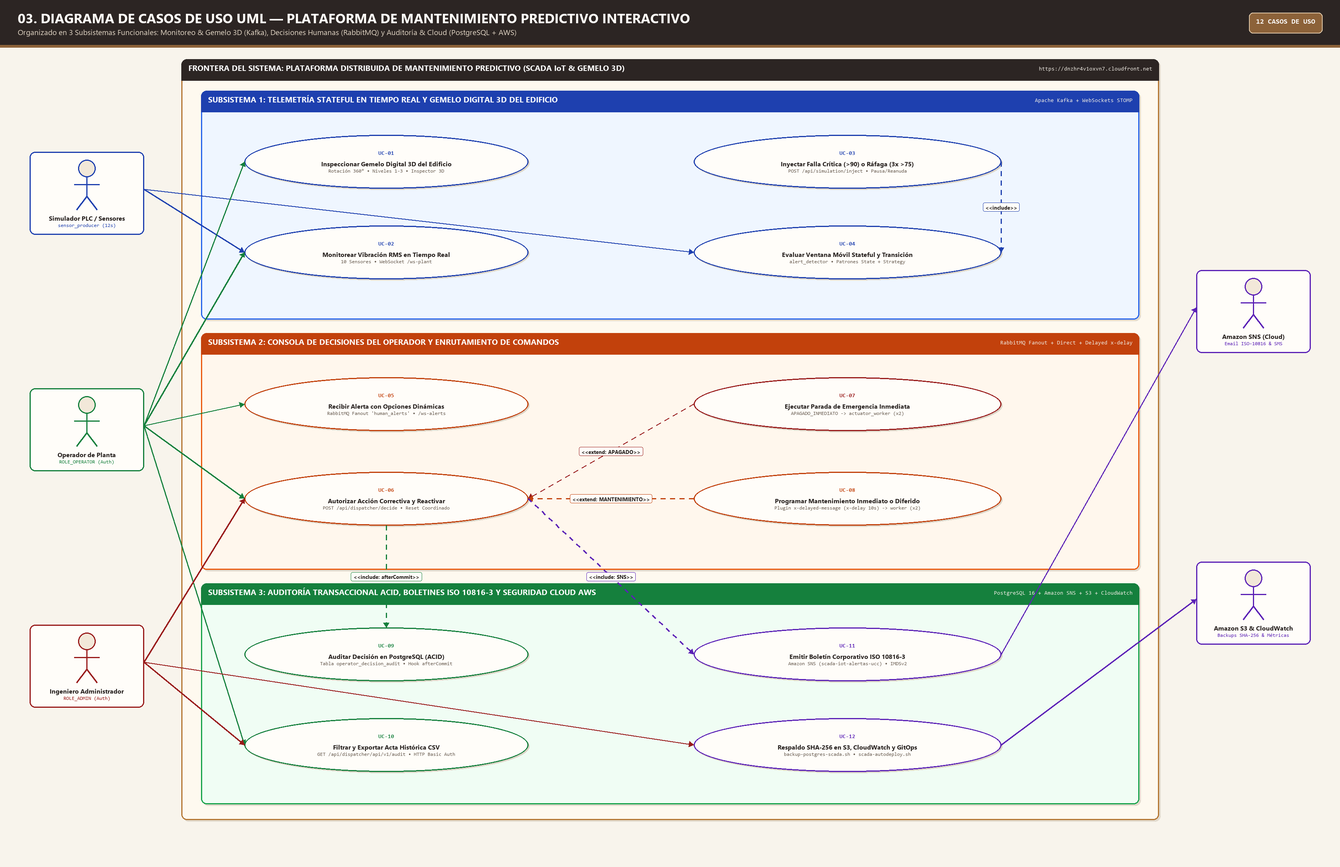
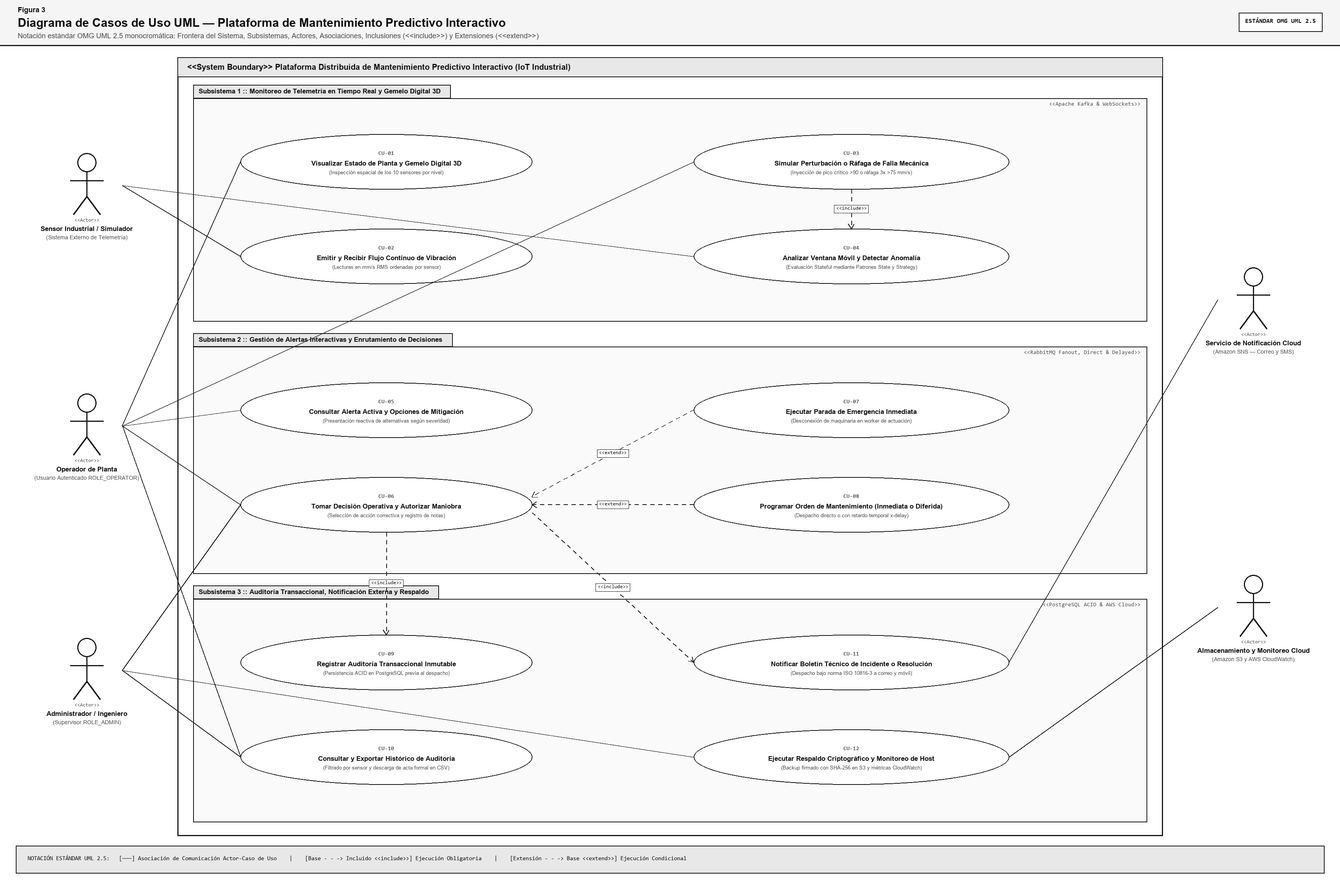
docs: add complete APA 7th edition technical report and standardize UML 2.5 monochrome PNG diagrams

diff --git a/docs/INFORME_TECNICO_APA7_PLATAFORMA_MANTENIMIENTO_PREDICTIVO.md b/docs/INFORME_TECNICO_APA7_PLATAFORMA_MANTENIMIENTO_PREDICTIVO.md
@@ -1,0 +1,282 @@
+# Diseño e Implementación de una Plataforma Distribuida de Mantenimiento Predictivo Interactivo para IoT Industrial Basada en Arquitectura Hexagonal, Apache Kafka, RabbitMQ, PostgreSQL y Despliegue Seguro en AWS
+
+**Autor:** Alejandro España  
+**Facultad:** Facultad de Ingeniería — Programa de Ingeniería de Software  
+**Institución:** Universidad Cooperativa de Colombia (UCC)  
+**Asignaturas Integradas:** Programación Orientada a Objetos Avanzada, Sistemas Distribuidos y Sistemas Operativos  
+**Infraestructura de Despliegue:** Amazon Web Services (`https://dnzhr4v1oxvn7.cloudfront.net`)  
+**Fecha:** Noviembre de 2026  
+
+---
+
+## Resumen
+
+El presente informe técnico documenta el diseño arquitectónico, la implementación orientada a objetos, el aseguramiento del sistema operativo y el despliegue en la nube de una **Plataforma Distribuida de Mantenimiento Predictivo Interactivo para el Internet de las Cosas Industrial (IIoT)**. El sistema aborda la problemática del monitoreo continuo de vibraciones mecánicas bajo la norma internacional **ISO 10816-3** mediante una arquitectura híbrida orientada a eventos que desacopla el *plano de ingesta masiva de datos* (**Apache Kafka**), el *plano de enrutamiento de decisiones humanas y tareas diferidas* (**RabbitMQ** con el plugin `rabbitmq_delayed_message_exchange`) y el *plano de persistencia transaccional y auditoría inmutable* (**PostgreSQL 16**). El backend se compone de ocho microservicios desarrollados en **Java 17 (JDK 17)** y **Spring Boot 3.3.5**, estructurados bajo una **Arquitectura Hexagonal (Puertos y Adaptadores)** con un **Modelo de Dominio Rico y Puro**, objetos de valor inmutables (`record`) con validación *Fail-Fast*, los patrones de diseño comportamentales **State** y **Strategy**, y el cumplimiento riguroso de los cinco principios **SOLID**. La interfaz de operación incorpora un **Gemelo Digital 3D interactivo** construido en **React 18 y TypeScript**. Finalmente, la solución fue desplegada en **Amazon Web Services (AWS EC2)** sobre **Ubuntu Server 24.04 LTS**, aplicando doce fases de endurecimiento (*Hardening*) de sistemas operativos, segmentación en dos redes virtuales privadas de Docker (`iot_backend_net` e `iot_brokers_net`), distribución de borde mediante **Amazon CloudFront** con cifrado TLS 1.3 nativo, notificación de boletines técnicos por **Amazon SNS**, respaldos criptográficos firmados con **SHA-256** en **Amazon S3** y despliegue continuo automatizado (**GitOps**).
+
+**Palabras clave:** arquitectura hexagonal, internet de las cosas industrial, mantenimiento predictivo, Apache Kafka, RabbitMQ, patrones de diseño, hardening de Linux, Amazon Web Services.
+
+---
+
+## Abstract
+
+This technical report documents the architectural design, object-oriented implementation, operating system hardening, and cloud deployment of an **Interactive Distributed Predictive Maintenance Platform for the Industrial Internet of Things (IIoT)**. The system addresses real-time mechanical vibration monitoring under the **ISO 10816-3** standard through a hybrid event-driven architecture that decouples the *high-throughput telemetry data plane* (**Apache Kafka**), the *human decision-making and delayed task routing plane* (**RabbitMQ** with `rabbitmq_delayed_message_exchange`), and the *ACID transactional audit persistence plane* (**PostgreSQL 16**). The backend comprises eight microservices built with **Java 17** and **Spring Boot 3.3.5**, structured under a **Hexagonal Architecture (Ports and Adapters)** featuring a **Pure Rich Domain Model**, immutable `record` Value Objects with *Fail-Fast* compact constructors, behavioral design patterns (**State** and **Strategy**), and strict adherence to **SOLID** principles. The operator console features an interactive **3D Building Digital Twin** built with **React 18 and TypeScript**. Finally, the platform is deployed on **AWS EC2 (Ubuntu Server 24.04 LTS)** with twelve layers of OS hardening, dual Docker private network segmentation (`iot_backend_net` and `iot_brokers_net`), **Amazon CloudFront** edge TLS delivery, **Amazon SNS** corporate notifications, **SHA-256** signed backups replicated to **Amazon S3**, and automated **GitOps** continuous deployment.
+
+**Keywords:** hexagonal architecture, industrial IoT, predictive maintenance, Apache Kafka, RabbitMQ, design patterns, Linux hardening, Amazon Web Services.
+
+---
+
+## 1. Introducción y Planteamiento del Problema
+
+En las plantas industriales modernas, la falla inesperada de activos rotativos críticos —tales como turbinas, generadores síncronos, compresores centrífugos y bombas hidráulicas— produce paradas no planificadas de alto costo económico y riesgo operativo. El monitoreo de condición basado en vibraciones mecánicas (medidas en velocidad eficaz $\text{mm/s RMS}$ conforme al estándar **ISO 10816-3**) exige procesar flujos continuos de telemetría en tiempo real, identificar anomalías mediante ventanas deslizantes con estado (*stateful sliding windows*) y coordinar la intervención oportuna de operadores humanos junto con actuadores automatizados.
+
+Sin embargo, el diseño de este tipo de plataformas enfrenta cuatro desafíos fundamentales de ingeniería de software y sistemas distribuidos:
+
+1. **Incompatibilidad entre ingesta masiva y enrutamiento complejo:** Un único bróker de mensajería rara vez es óptimo tanto para almacenar millones de eventos ordenados por partición como para gestionar colas de trabajo con retardos temporales por mensaje (*per-message TTL / delay*) y enrutamiento condicional.
+2. **Tormentas de alertas (*Alert Storms*):** Los sistemas que evalúan umbrales de manera *stateless* (sin memoria de estado) emiten una nueva alerta en cada lectura consecutiva que supera el umbral, saturando las consolas humanas y los canales de correo electrónico.
+3. **Inconsistencia transaccional entre base de datos y mensajería:** Si un microservicio publica una orden de apagado en el bróker de mensajería antes de confirmar (*commit*) la transacción de auditoría en la base de datos relacional, un fallo de persistencia deja acciones físicas ejecutadas en planta sin rastro forense.
+4. **Exposición de superficie de ataque en despliegues contenedorizados:** Por defecto, el motor Docker manipula directamente las cadenas `PREROUTING` y `DOCKER` de `iptables`/`nftables`, exponiendo puertos críticos de bases de datos y brókers a Internet aun cuando el firewall del sistema operativo (`UFW`) esté activo.
+
+Para resolver integralmente estos cuatro desafíos, se diseñó, implementó y desplegó una plataforma distribuida compuesta por **15 contenedores gobernados** en **AWS EC2**, integrando **Apache Kafka**, **RabbitMQ**, **PostgreSQL 16**, **8 microservicios en Java 17 + Spring Boot 3.3.5**, un **Gemelo Digital 3D en React + TypeScript** y un esquema de **Defensa en Profundidad** a nivel de sistema operativo y nube.
+
+---
+
+## 2. Marco Arquitectónico: Diseño Híbrido de Mensajería y Persistencia
+
+Siguiendo los principios de diseño de sistemas intensivos en datos expuestos por Kleppmann (2017), la arquitectura separa estrictamente tres responsabilidades mediante tecnologías especializadas:
+
+### 2.1. El Flujo de Datos Masivos: Apache Kafka (Procesamiento Stateful y Particionamiento)
+
+**Apache Kafka** opera como un registro distribuido de solo adición (*append-only commit log*) particionado. En la plataforma se definieron tres tópicos con **3 particiones** cada uno (`KAFKA_NUM_PARTITIONS: 3`): `sensor_data`, `alerts_warning` y `alerts_critical`.
+
+Para garantizar que las lecturas de un sensor específico nunca se procesen fuera de orden cronológico, el microservicio productor (`sensor_producer`) asigna el identificador único del sensor (`SensorId`, por ejemplo `"sensor_A"`) como **clave de partición (*Partition Key*)**:
+
+$$\text{Partición Destino} = \text{murmur2}(\text{sensorId}) \pmod{3}$$
+
+De esta forma, todas las lecturas de `"sensor_A"` son dirigidas determinísticamente a la misma partición y consumidas en orden estricto por una única hebra del grupo consumidor `alert-detector-group`, permitiendo mantener en memoria una ventana móvil exacta de las últimas $N = 10$ lecturas sin condiciones de carrera entre nodos.
+
+### 2.2. El Flujo de Decisiones Humanas y Tareas Diferidas: RabbitMQ (Protocolo AMQP 0-9-1)
+
+Una vez que el motor analítico detecta una transición hacia un estado de riesgo, el flujo pasa del plano de datos al plano de decisiones gobernado por **RabbitMQ 3.13**. A diferencia de Kafka, en RabbitMQ el productor nunca escribe directamente en una cola, sino que publica el mensaje en un **Exchange (Intercambiador)**, el cual evalúa reglas de enlace (*Bindings*) y claves de enrutamiento (*Routing Keys*). Se implementaron tres tipos de *Exchange*:
+
+1. **`FanoutExchange` (`human_alerts`):** Difunde en modo *broadcast* toda alerta enriquecida con opciones hacia la cola `operator_console_alerts_queue` consumida por la consola interactiva del operador.
+2. **`Direct Exchange` (Intercambiador directo por defecto `""`):** Enruta de forma inmediata las órdenes críticas de corte de energía hacia `critical_actions_queue` (consumida por las réplicas de `actuator_worker`) y las órdenes de mantenimiento inmediato hacia `maintenance_queue` (consumida por las réplicas de `maintenance_worker`).
+3. **`CustomExchange` de tipo `x-delayed-message` (`delayed_actions_exchange`):** Habilitado mediante el plugin oficial `rabbitmq_delayed_message_exchange`. Cuando el operador selecciona la opción `RECONOCER_Y_ESPERAR_24H`, el mensaje se publica con la cabecera AMQP `x-delay: 10000` (10 segundos que simulan las 24 horas en entorno de demostración). El *Exchange* retiene el mensaje en el almacenamiento interno del bróker y, al expirar el temporizador, lo transfiere automáticamente a `maintenance_queue` mediante la clave `maintenance_route`.
+
+### 2.3. Persistencia Transaccional y Sincronización Post-Commit: PostgreSQL 16
+
+El motor relacional **PostgreSQL 16** almacena de forma inmutable todas las resoluciones humanas en la tabla `operator_decision_audit`. Para evitar que un comando sea enviado a RabbitMQ si la transacción SQL falla, el caso de uso `ProcessOperatorDecisionUseCase` registra un gancho transaccional mediante `TransactionSynchronizationManager.registerSynchronization(...)`. Así, la publicación AMQP y la notificación hacia **Amazon SNS** se ejecutan exclusivamente dentro del método `afterCommit()`, garantizando consistencia transaccional de extremo a extremo.
+
+---
+
+## 3. Arquitectura de Software, Programación Orientada a Objetos Avanzada y Principios SOLID
+
+### 3.1. Arquitectura Hexagonal (Puertos y Adaptadores)
+
+Conforme al patrón formulado por Cockburn (2005) y los principios de *Clean Architecture* (Martin, 2017), cada uno de los ocho microservicios está estructurado de manera uniforme en cuatro capas concéntricas:
+
+* **Capa de Dominio (`domain.model`, `domain.service`, `domain.repository`, `domain.exception`):** Contiene las entidades ricas, agregados, objetos de valor (`record`), máquinas de estado, estrategias matemáticas e interfaces de puerto (`*Port`). Esta capa es **100% Java puro**, careciendo por completo de anotaciones o importaciones de Spring Framework (`@Service`, `@Component`, `@Autowired`), JPA o clientes de mensajería.
+* **Capa de Aplicación (`application.usecase`, `application.service`, `application.dto`):** Orquesta los casos de uso del negocio invocando entidades de dominio y comunicándose con el exterior exclusivamente a través de las interfaces de puerto definidas en el dominio.
+* **Capa de Infraestructura (`infrastructure.adapter`, `infrastructure.persistence`, `config`):** Implementa los adaptadores concretos de Kafka (`@KafkaListener`, `KafkaTemplate`), RabbitMQ (`@RabbitListener`, `RabbitTemplate`), PostgreSQL (`SpringDataDecisionAuditRepository`), WebSockets STOMP (`SimpMessagingTemplate`), Amazon SNS (`HttpClient`) y la configuración de beans (`BeanConfig`).
+* **Capa de Presentación (`presentation.controller`, `presentation.request`, `presentation.response`, `presentation.mapper`):** Expone los controladores REST (`@RestController`), validaciones de entrada y manejadores globales de excepciones (`@RestControllerAdvice`).
+
+En la **Figura 1** se presenta el Diagrama de Clases UML del sistema completo, evidenciando la relación entre el módulo transversal de contratos y los ocho microservicios.
+
+![Figura 1. Diagrama de Clases UML del Sistema Completo](./diagramas/png/01_DIAGRAMA_CLASES_SISTEMA_COMPLETO.png)
+
+*Nota.* La Figura 1 muestra la estructura de paquetes y clases de los 8 microservicios (`ms01` a `ms08`) y el paquete superior de contratos y *Value Objects* compartidos bajo notación estándar OMG UML 2.5.
+
+---
+
+### 3.2. Modelo de Dominio Rico vs. Modelo Anémico e Inmutabilidad con Java 17 `record`
+
+Se erradicó el antipatrón de *Modelo de Dominio Anémico* (Fowler, 2002) suprimiendo los métodos `set*` públicos en las entidades de negocio y encapsulando las reglas e invariantes dentro de métodos semánticos:
+
+* En `SensorVibrationWindow` (`alert_detector`): El estado interno de la ventana deslizante (`List<VibrationReadingRecord>`) está protegido y solo puede modificarse mediante `registrarLectura(reading)`, `evaluarCriticidad(strategy)`, `procesarTelemetria(reading, strategy)` y `resetear()`, mientras que `getVentanaHistorica()` retorna una vista inmodificable (`Collections.unmodifiableList(...)`).
+* En `MaintenanceDecision` (`action_dispatcher`): El método de negocio `aplicarAccion(long delayedMillisConfig)` evalúa la semántica de la decisión del operador y determina internamente el destino de enrutamiento (`critical_actions_queue`, `maintenance_queue`, `delayed_actions_exchange` o `NONE_IGNORED`) y el tiempo de retardo aplicable.
+
+Adicionalmente, todos los identificadores y eventos de red se implementaron como **Value Objects inmutables** utilizando `record` de **Java 17** con **validaciones *Fail-Fast* en sus constructores compactos**:
+
+* **`VibrationReadingRecord`:** Valida en su constructor compacto que `sensorId` y `timestamp` no sean nulos, que `vibrationValue` no sea `NaN` ni infinito (`Double.isNaN` / `Double.isInfinite`) y que se encuentre dentro del rango físico admisible $[0.0, 500.0]\text{ mm/s}$.
+* **`SensorId` y `AlertId`:** Validan que el identificador no sea nulo ni cadena vacía tras aplicar `.trim()`, e incorporan las anotaciones `@JsonValue` y `@JsonCreator` para garantizar una serialización JSON plana (`"sensor_A"`) entre backend y frontend.
+* **`HumanActionRequest` y `OperatorDecisionRecord`:** Validan la presencia obligatoria de todos sus atributos, verifican que la lista de opciones de mitigación no esté vacía y crean copias defensivas inmutables (`List.copyOf(...)`).
+
+---
+
+### 3.3. Patrones de Diseño Comportamentales (`State` y `Strategy`) y Principios SOLID
+
+Siguiendo el catálogo clásico de Gamma et al. (1994), en el microservicio `alert_detector` se combinaron dos patrones comportamentales para eliminar condicionales complejos anidados y erradicar las tormentas de alertas:
+
+1. **Patrón Strategy (`AnomalyDetectionStrategy`):** Define una familia de algoritmos matemáticos intercambiables para evaluar la ventana móvil de lecturas:
+   * `RuleBasedThresholdStrategy`: Evalúa las dos reglas del caso de estudio basadas en la norma ISO 10816-3 (Regla 1: Crítica inmediata si la última lectura supera $90.0\text{ mm/s}$; Regla 2: Advertencia si las últimas 3 lecturas consecutivas superan $75.0\text{ mm/s}$).
+   * `ExponentialMovingAverageStrategy`: Calcula la media móvil exponencial ponderada ($\text{EMA}_t = \alpha X_t + (1 - \alpha)\text{EMA}_{t-1}$ con $\alpha = 0.35$) para detectar tendencias sostenidas de degradación.
+2. **Patrón State (`SensorRiskState`):** Modela de forma polimórfica los estados de riesgo del sensor a través de las clases `NormalSensorState`, `WarningSensorState` y `CriticalSensorState` (y de forma análoga `MachineOperationalState` con `RunningMachineState` y `EmergencyHaltedMachineState` en `actuator_worker`). El método `currentState.shouldEmitAlert(result)` retorna `true` **únicamente cuando ocurre una transición real hacia un estado de mayor criticidad** (por ejemplo, de `NORMAL` a `WARNING` o de `WARNING` a `CRITICAL`), suprimiendo emisiones redundantes mientras el sensor permanezca en el mismo estado.
+
+En la **Figura 2** se detalla el acoplamiento polimórfico de los patrones `State` y `Strategy` junto con la inversión de dependencias en `action_dispatcher`.
+
+![Figura 2. Diagrama de Clases UML de Patrones de Diseño y Principios SOLID](./diagramas/png/02_DIAGRAMA_CLASES_PATRONES_POO_SOLID.png)
+
+*Nota.* La Figura 2 ilustra la aplicación conjunta de los patrones *State* y *Strategy* en `alert_detector` (izquierda) y la segregación e inversión de puertos en `action_dispatcher` (derecha).
+
+En la **Tabla 1** se sintetiza la aplicación verificable de los cinco principios **SOLID** (Martin, 2017) en el código fuente del proyecto.
+
+**Tabla 1**  
+*Matriz de Implementación de los Cinco Principios SOLID en los Microservicios Backend*
+
+| Principio SOLID | Mecanismo Técnico Aplicado | Clases y Archivos de Evidencia en el Proyecto |
+| :--- | :--- | :--- |
+| **S — Single Responsibility Principle (SRP)** | Separación estricta de responsabilidades: las entidades validan reglas de negocio, los casos de uso coordinan transacciones, los adaptadores JPA persisten en SQL y los adaptadores AMQP/SNS publican mensajes. | `MaintenanceDecision.java`, `ProcessOperatorDecisionUseCase.java`, `JpaDecisionAuditRepositoryAdapter.java`, `RabbitMQActionCommandPublisherAdapter.java`, `MultichannelNotificationService.java` |
+| **O — Open/Closed Principle (OCP)** | El agregado `SensorVibrationWindow` está abierto a la extensión de nuevos algoritmos matemáticos de detección mediante la interfaz `AnomalyDetectionStrategy`, pero cerrado a la modificación de su código. | `AnomalyDetectionStrategy.java`, `RuleBasedThresholdStrategy.java`, `ExponentialMovingAverageStrategy.java`, `SensorVibrationWindow.java` |
+| **L — Liskov Substitution Principle (LSP)** | Polimorfismo puro en las máquinas de estado del sensor y del actuador: el contexto delega en `SensorRiskState` y `MachineOperationalState` sin utilizar verificaciones de tipo (`instanceof`) ni conversiones forzadas (*castings*). | `SensorRiskState.java`, `NormalSensorState.java`, `WarningSensorState.java`, `CriticalSensorState.java`, `MachineOperationalState.java` |
+| **I — Interface Segregation Principle (ISP)** | Segregación de puertos de salida granulares en lugar de interfaces monolíticas: el puerto de persistencia SQL está separado del puerto de despacho AMQP, de modo que las consultas de auditoría no dependen de RabbitMQ. | `DecisionAuditRepositoryPort.java`, `ActionCommandPublisherPort.java`, `GetDecisionAuditHistoryUseCase.java` |
+| **D — Dependency Inversion Principle (DIP)** | Los casos de uso de alto nivel dependen exclusivamente de interfaces de puerto (`*Port`) ubicadas en el dominio, inyectadas por constructor con validación explícita `Objects.requireNonNull(...)` y cero uso de `@Autowired` en atributos. | `EvaluateSensorTelemetryUseCase.java`, `RouteAlertToHumanUseCase.java`, `ProcessOperatorDecisionUseCase.java`, `ExecuteEmergencyShutdownUseCase.java` |
+
+*Nota.* Elaboración propia a partir de la estructura del repositorio de código fuente.
+
+---
+
+## 4. Especificación Funcional, Microservicios, Casos de Uso y Procesos
+
+### 4.1. Catálogo y Responsabilidades de los Microservicios
+
+En la **Tabla 2** se describe la función arquitectónica, los puertos internos, las entradas/salidas y las cuotas de hardware asignadas a cada componente contenedorizado.
+
+**Tabla 2**  
+*Especificación Técnica de los Microservicios y Componentes del Sistema Distribuido*
+
+| Componente / Microservicio | Tecnología Base | Rol Arquitectónico y Lógica de Negocio | Entradas y Salidas de Red / Mensajería | Cuota CPU / RAM (Réplicas) |
+| :--- | :--- | :--- | :--- | :--- |
+| **`sensor_producer`** | Java 17 / Spring Boot | Simula los 10 sensores de los 3 niveles del edificio (`sensor_A` a `sensor_J`) con ciclo realista de 12s y permite inyectar picos (`>90`) o ráfagas (`3x >75`). | **Entrada:** REST `/api/v1/simulation/*`<br>**Salida:** Kafka `sensor_data` (`Key = sensorId`) | `0.50 vCPU` / `384 MB` (1) |
+| **`alert_detector`** | Java 17 / Spring Boot | **Cerebro Analítico Stateful:** Mantiene la ventana móvil `SensorVibrationWindow` por sensor y evalúa los patrones *Strategy* y *State*. | **Entrada:** Kafka `sensor_data`<br>**Salida:** Kafka `alerts_critical` y `alerts_warning` | `0.50 vCPU` / `512 MB` (1) |
+| **`plant_monitor_backend`** | Java 17 / Spring Boot | Mantiene la vista materializada en vivo de las 10 máquinas de la planta y sincroniza el **Gemelo Digital 3D** mediante WebSockets STOMP. | **Entrada:** Kafka `sensor_data`, `alerts_*`<br>**Salida:** WebSocket `/ws-plant` y REST `/api/v1/sensors/*` | `0.50 vCPU` / `384 MB` (1) |
+| **`alert_router`** | Java 17 / Spring Boot | Puente híbrido Kafka $\rightarrow$ RabbitMQ. Genera polimórficamente las opciones de mitigación según la severidad de la alerta detectada. | **Entrada:** Kafka `alerts_critical`, `alerts_warning`<br>**Salida:** RabbitMQ Fanout `human_alerts` + AWS SNS | `0.50 vCPU` / `384 MB` (1) |
+| **`operator_console_backend`** | Java 17 / Spring Boot | Gestiona las sesiones de alertas activas pendientes de decisión humana y las transmite en tiempo real a la consola del operador. | **Entrada:** RabbitMQ `operator_console_alerts_queue`<br>**Salida:** WebSocket `/ws-alerts` y REST `/api/v1/alerts/*` | `0.50 vCPU` / `384 MB` (1) |
+| **`action_dispatcher`** | Java 17 / Spring Boot | **Orquestador Central / Padre:** Autentica al operador con Spring Security, persiste la auditoría ACID en PostgreSQL y despacha `afterCommit()`. | **Entrada:** REST `POST /decide` (Basic Auth)<br>**Salida:** PostgreSQL + RabbitMQ Direct/Delayed + AWS SNS | `0.50 vCPU` / `512 MB` (1) |
+| **`actuator_worker`** | Java 17 / Spring Boot | Worker concurrente que ejecuta comandos críticos de parada de emergencia (`EMERGENCY_HALTED`) y reactivación segura de maquinaria. | **Entrada:** RabbitMQ `critical_actions_queue`<br>**Salida:** REST `/api/v1/actuators/history` y `/reset` | `0.50 vCPU` / `384 MB` (**2 Réplicas**) |
+| **`maintenance_worker`** | Java 17 / Spring Boot | Worker concurrente que procesa órdenes de trabajo de mantenimiento tanto inmediatas como diferidas liberadas tras expirar `x-delay`. | **Entrada:** RabbitMQ `maintenance_queue`<br>**Salida:** REST `/api/v1/maintenance/tickets` | `0.50 vCPU` / `384 MB` (**2 Réplicas**) |
+| **`frontend_dashboard`** | React 18 / TS / Nginx 1.27 | Consola interactiva en tonos crema/marfil con **Gemelo Digital 3D del edificio** y Reverse Proxy Nginx con TLS 1.2/1.3 y DNS dinámico. | **Entrada:** HTTPS (`443`) y HTTP (`80`)<br>**Salida:** Proxy interno hacia `iot_backend_net` | `0.25 vCPU` / `128 MB` (1) |
+
+*Nota.* Todos los contenedores de infraestructura y microservicios backend tienen sus puertos del host ligados exclusivamente a la interfaz loopback `127.0.0.1`.
+
+---
+
+### 4.2. Modelo de Casos de Uso del Sistema
+
+Para facilitar la comprensión funcional del sistema tanto por perfiles técnicos como por evaluadores externos, en la **Figura 3** se presenta el Diagrama de Casos de Uso bajo notación estándar OMG UML 2.5 monocromática, estructurado en tres subsistemas: (1) Monitoreo de Telemetría y Gemelo Digital 3D, (2) Gestión de Alertas Interactivas y Enrutamiento de Decisiones, y (3) Auditoría Transaccional, Notificación Externa y Respaldo Cloud.
+
+![Figura 3. Diagrama de Casos de Uso UML de la Plataforma](./diagramas/png/03_DIAGRAMA_CASOS_DE_USO.png)
+
+*Nota.* La Figura 3 representa las asociaciones entre los cinco actores del sistema y los doce casos de uso (`CU-01` a `CU-12`), diferenciando las relaciones obligatorias (`<<include>>`) de los flujos condicionales (`<<extend>>`).
+
+---
+
+### 4.3. Proceso y Secuencia de Operación de Punta a Punta (End-to-End)
+
+El ciclo completo de operación desde la generación de una lectura de vibración hasta la ejecución de la acción correctiva y su notificación por correo electrónico consta de dieciséis pasos secuenciales divididos en tres fases, tal como se modela formalmente en la **Figura 5**.
+
+![Figura 5. Diagrama de Secuencia UML E2E del Sistema](./diagramas/png/05_DIAGRAMA_PROCESOS_Y_SECUENCIA.png)
+
+*Nota.* La Figura 5 detalla los mensajes síncronos y asíncronos entre las nueve líneas de vida del sistema utilizando fragmentos combinados estándar UML 2.5 (`loop / par`, `opt` y `alt`).
+
+---
+
+## 5. Contenerización, Segmentación de Redes, Hardening de Linux y Despliegue en AWS
+
+### 5.1. Dockerfiles Multietapa, Usuario No Privilegiado y Gobernanza de JVM
+
+Cada uno de los ocho microservicios Java implementa un `Dockerfile` multietapa de dos fases:
+
+1. **Etapa 1 (`builder` — `maven:3.9.6-eclipse-temurin-17-alpine`):** Descarga en caché las dependencias del `pom.xml` (`mvn dependency:go-offline -B`) y empaqueta el artefacto ejecutable (`mvn clean package -DskipTests`).
+2. **Etapa 2 (`runtime` — `eclipse-temurin:17-jre-alpine`):** Carece de compiladores y código fuente. Crea un grupo y usuario de sistema sin privilegios (`addgroup -S appgroup && adduser -S appuser -G appgroup`), asigna la propiedad del artefacto `app.jar`, declara `USER appuser` y configura parámetros ergonómicos de memoria para la Máquina Virtual de Java sincronizados con los límites de Cgroups de Docker:
+   ```dockerfile
+   ENV JAVA_OPTS="-XX:+UseContainerSupport -XX:MaxRAMPercentage=75.0 -XX:+ExitOnOutOfMemoryError"
+   ```
+
+### 5.2. Segmentación en Dos Redes Privadas Dedicadas en `docker-compose.yml`
+
+Con el fin de aplicar el principio de menor privilegio a nivel de red virtual y cumplir con el requerimiento de redes privadas dedicadas, en `docker-compose.yml` se segmentó la arquitectura en **dos redes bridge independientes**:
+
+* **`iot_backend_net` (Red de Aplicación y Reverse Proxy):** Conecta únicamente al contenedor público `iot_frontend_dashboard` (Nginx) con los puntos de entrada HTTP/WebSocket de los microservicios Java. Ni PostgreSQL, ni Apache Kafka, ni Zookeeper, ni RabbitMQ están conectados a esta red.
+* **`iot_brokers_net` (Red Aislada de Brokers y Persistencia):** Conecta exclusivamente a `iot_postgres`, `iot_kafka`, `iot_zookeeper` e `iot_rabbitmq` con los adaptadores de infraestructura de los microservicios backend. El contenedor público `iot_frontend_dashboard` **no pertenece a `iot_brokers_net`**, impidiendo físicamente cualquier intento de conexión directa desde la capa web frontal hacia los motores de datos o mensajería.
+
+En la **Figura 4** se presenta el Diagrama de Despliegue UML completo, ilustrando la topología en AWS y la segmentación en las dos redes virtuales de Docker.
+
+![Figura 4. Diagrama de Despliegue UML en AWS y Redes Docker](./diagramas/png/04_DIAGRAMA_DESPLIEGUE_AWS.png)
+
+*Nota.* La Figura 4 muestra la disposición física y lógica de los nodos en AWS (`us-east-2`), incluyendo Amazon CloudFront, AWS ACM, Security Group, las capas de Hardening de Ubuntu Server 24.04 LTS y la separación entre `iot_backend_net` e `iot_brokers_net`.
+
+---
+
+### 5.3. Hardening de Sistemas Operativos en Ubuntu Server 24.04 LTS y Servicios Cloud AWS
+
+Sobre la instancia **AWS EC2 (Ubuntu Server 24.04 LTS)** se desarrolló e implementó el script automatizado `aws/hardening-ubuntu.sh` estructurado en **doce fases de Defensa en Profundidad**, resumidas en la **Tabla 3**.
+
+**Tabla 3**  
+*Fases de Hardening de Sistema Operativo e Integración Cloud Aplicadas en Ubuntu Server 24.04 LTS*
+
+| Fase | Dominio de Seguridad / Cloud | Archivos de Configuración e Implementación | Control Técnico Aplicado en el Servidor de Producción |
+| :--- | :--- | :--- | :--- |
+| **Fase 1** | Gestión de Parches | `/etc/apt/apt.conf.d/20auto-upgrades` | Actualizaciones automáticas de seguridad (`unattended-upgrades`) y reinicio controlado de demonios (`needrestart`). |
+| **Fase 2** | Blindaje SSH, PAM y Sudo | `/etc/ssh/sshd_config.d/01-hardening.conf`, `/etc/sudoers.d/99-hardening`, `/etc/issue.net` | `PermitRootLogin no`, `PasswordAuthentication no`, autenticación exclusiva por llave `.pem`, `MaxAuthTries 3`, banner legal, `use_pty`, `pwquality` (`minlen=14`) y `faillock` (5 intentos). |
+| **Fase 3** | Firewall Host e IPS | `ufw`, `/etc/fail2ban/jail.local` | Política `default deny incoming` en UFW (solo puertos 22, 80 y 443) y cárceles activas `sshd` y `recidive` en **Fail2ban** con baneo incremental hasta 1 semana. |
+| **Fase 4** | Endurecimiento del Kernel | `/etc/sysctl.d/99-hardening.conf`, `/etc/modprobe.d/99-hardening.conf` | Aleatorización completa de espacio de memoria ASLR (`randomize_va_space=2`), `kptr_restrict=2`, `tcp_syncookies=1`, `rp_filter=1`, bloqueo de *Core Dumps* y módulos USB/FS obsoletos. |
+| **Fase 5** | Vigilancia de Recursos | `/usr/local/sbin/check-resources.sh`, `/etc/cron.d/check-resources` | Monitoreo cada 5 minutos con `sysstat` (`mpstat`, `free`, `df`) y alerta automática en `syslog` ante umbrales $>85\%$ CPU/Disco o $>90\%$ RAM. |
+| **Fase 6** | Auditoría Forense | `/etc/audit/rules.d/99-hardening.rules`, `suid_baseline.txt` | Vigilancia a nivel de kernel con **`auditd`** sobre `/etc/passwd`, `/etc/shadow`, `/etc/sudoers`, `/etc/ssh` y ejecuciones de `sudo`/`su`, complementada con auditoría **Lynis**. |
+| **Fase 7** | Puente Confinado AWS SNS | `/etc/systemd/system/scada-sns-bridge.service` | Demonio local Python/Boto3 autenticado mediante **Rol IAM (`IMDSv2`)** sin credenciales en disco, confinado con `ProtectSystem=strict`, `NoNewPrivileges=true` y `MemoryMax=128M`. |
+| **Fase 8** | Respaldo Criptográfico S3 | `/usr/local/sbin/backup-postgres-scada.sh`, `upload-backup-s3.py` | Volcado diario `pg_dump` comprimido (`.sql.gz`), firmado con hash **`SHA-256`** y replicado con cifrado **`AES-256`** al bucket privado `s3://scada-ucc-backups-148395526595`. |
+| **Fase 9** | Telemetría CloudWatch | `/usr/local/sbin/push-cloudwatch-metrics.py` | Publicación cada 5 minutos de métricas personalizadas (`MemoryUtilizationPercent`, `SwapUtilizationPercent`, `DiskUtilizationPercent`, `ActiveDockerContainers`) en AWS CloudWatch. |
+| **Fase 10** | Gestión de Certificados | `/usr/local/sbin/register-acm-cert.py` | Emisión de certificado TLS 1.2/1.3 e importación oficial en **AWS Certificate Manager (ACM)** y distribución de borde **Amazon CloudFront (`https://dnzhr4v1oxvn7.cloudfront.net`)**. |
+| **Fase 11** | Despliegue Continuo GitOps | `/usr/local/sbin/scada-autodeploy.sh`, `.github/workflows/deploy-aws-ec2.yml` | Sincronización automática cada 2 minutos contra la rama `main` de GitHub y pipeline CI en GitHub Actions que ejecuta las pruebas unitarias en cada *push*. |
+| **Fase 12** | Sincronización de Arranque | `/etc/systemd/system/scada-boot-sync.service` | Al encender la instancia EC2 tras un apagado, levanta los 15 contenedores, detecta la nueva IP pública por `IMDSv2` y actualiza automáticamente el origen de **Amazon CloudFront**. |
+
+*Nota.* Todos los scripts de despliegue y endurecimiento (`aws/deploy-aws.sh` y `aws/hardening-ubuntu.sh`) son idempotentes.
+
+---
+
+## 6. Estrategia de Pruebas Unitarias Aisladas (TDD con JUnit 5 y Mockito)
+
+Para garantizar la calidad estructural del software sin depender de bases de datos ni brókers en tiempo de compilación, se implementó una batería de **49 pruebas unitarias aisladas** distribuidas en los ocho microservicios bajo el patrón **AAA (*Arrange, Act, Assert*)**:
+
+1. **Pruebas de Dominio Puro en Memoria RAM:** Verifican en menos de $15\text{ ms}$ las invariantes de los constructores compactos de los `record` (`VibrationReadingRecordTest`, `MaintenanceDecisionTest`, `SensorPlantStatusViewTest`), el llenado y desplazamiento de la ventana móvil `SensorVibrationWindow`, los cálculos de `RuleBasedThresholdStrategy` y `ExponentialMovingAverageStrategy`, y las transiciones polimórficas de `SensorRiskState` (comprobando que no se emitan alertas duplicadas cuando el sensor permanece en el mismo estado).
+2. **Pruebas de Casos de Uso y Adaptadores con Dobles de Prueba (`@ExtendWith(MockitoExtension.class)`):** Utilizan `@Mock` e `@InjectMocks` para aislar los puertos de salida (`DecisionAuditRepositoryPort`, `ActionCommandPublisherPort`, `AlertPublisherPort`, `TelemetryEventPublisherPort`). Mediante `verify(..., times(1))` se audita que `ProcessOperatorDecisionUseCaseTest` persista primero el registro en PostgreSQL y despache exactamente un mensaje al *Exchange* o cola correspondiente de RabbitMQ.
+3. **Pruebas de Contratos de Serialización JSON y Seguridad:** Verifican que `SensorId` y `AlertId` se serialicen como cadenas planas (`@JsonValue`) evitando errores `[object Object]` en el cliente web, y que el controlador `ActionDecisionControllerTest` extraiga el `operatorId` directamente del `Principal` autenticado.
+
+En la **Tabla 4** se resume la cobertura de pruebas unitarias por microservicio.
+
+**Tabla 4**  
+*Distribución de Suites de Pruebas Unitarias Aisladas por Microservicio*
+
+| Microservicio | Clases de Prueba (`src/test/java`) | Aspectos Validados bajo Patrón AAA (JUnit 5 + Mockito) |
+| :--- | :--- | :--- |
+| **`sensor_producer`** | `VibrationReadingRecordTest`, `GenerateTelemetryBatchUseCaseTest`, `KafkaTelemetryPublisherAdapterTest`, `SimulationControllerTest` | Validación *Fail-Fast* de rangos $[0, 500]\text{ mm/s}$, generación de lotes por perfil y particionamiento por clave `sensorId` en `KafkaTemplate`. |
+| **`alert_detector`** | `SensorVibrationWindowTest`, `EvaluateSensorTelemetryUseCaseTest`, `KafkaAlertPublisherAdapterTest`, `DetectorStatusControllerTest` | Ventana deslizante de capacidad 10, estrategias de umbral y EMA, transición de estados sin tormenta de alertas y enrutamiento a tópicos Kafka. |
+| **`alert_router`** | `DecisionOptionsPolicyDomainServiceTest`, `RouteAlertToHumanUseCaseTest`, `RabbitMQHumanAlertPublisherAdapterTest`, `RouterMetricsControllerTest` | Generación polimórfica de opciones según severidad (`CRITICAL` vs. `WARNING`) y publicación en `FanoutExchange("human_alerts")`. |
+| **`plant_monitor_backend`** | `SensorPlantStatusViewTest`, `UpdatePlantStatusUseCaseTest`, `WebSocketPlantBroadcasterAdapterTest`, `PlantStatusControllerTest` | Actualización de vista materializada, parada de emergencia (`/halt`), reactivación (`/reset`) y difusión STOMP a `/topic/plant-status`. |
+| **`operator_console_backend`** | `InteractiveAlertSessionTest`, `RegisterHumanAlertUseCaseTest`, `WebSocketOperatorAlertBroadcasterAdapterTest`, `OperatorConsoleControllerTest` | Ciclo de vida de sesiones de alerta pendientes, eliminación al resolver (`DELETE /api/v1/alerts/{id}`) y difusión a `/topic/operator-alerts`. |
+| **`action_dispatcher`** | `MaintenanceDecisionTest`, `ProcessOperatorDecisionUseCaseTest`, `JpaDecisionAuditRepositoryAdapterTest`, `RabbitMQActionCommandPublisherAdapterTest`, `ActionDecisionControllerTest` | Reglas de enrutamiento, persistencia ACID previa al despacho (`afterCommit`), inyección de cabecera `x-delay` y extracción segura de `Principal`. |
+| **`actuator_worker`** | `PhysicalActuatorTest`, `ExecuteEmergencyShutdownUseCaseTest`, `RabbitMQCriticalActionConsumerAdapterTest`, `ActuatorStatusControllerTest` | Transición entre `RunningMachineState` y `EmergencyHaltedMachineState`, bloqueo de comandos duplicados y reactivación segura. |
+| **`maintenance_worker`** | `MaintenanceWorkOrderTest`, `ProcessMaintenanceWorkOrderUseCaseTest`, `RabbitMQMaintenanceConsumerAdapterTest`, `MaintenanceTicketControllerTest` | Procesamiento de órdenes de trabajo inmediatas y órdenes diferidas provenientes de `delayed_actions_exchange`. |
+
+*Nota.* Todas las suites se ejecutan automáticamente en cada integración mediante el flujo `.github/workflows/deploy-aws-ec2.yml`.
+
+---
+
+## 7. Conclusiones
+
+1. **Eficacia del Diseño Híbrido Distribuido:** La separación del plano de datos (**Apache Kafka**) respecto del plano de decisiones (**RabbitMQ**) y del plano de auditoría (**PostgreSQL 16**) demostró ser arquitectónicamente superior al uso de un único bróker. Kafka garantizó el orden secuencial por sensor mediante particionamiento por clave (`sensorId`) para la evaluación de ventanas móviles, mientras que RabbitMQ permitió difundir alertas mediante *Fanout* y programar mantenimientos diferidos con precisión temporal a través del plugin `x-delayed-message`.
+2. **Impacto de la POO Avanzada en la Estabilidad Operativa:** La combinación de un **Dominio Rico y Puro** con objetos de valor `record` y los patrones **State** y **Strategy** resolvió de raíz el problema de las tormentas de alertas (*Alert Storms*). Al delegar la decisión de emisión en la transición polimórfica de `SensorRiskState`, el sistema redujo miles de notificaciones redundantes por hora a eventos únicos y accionables por cada cambio real de estado físico.
+3. **Integridad Forense Mediante Sincronización Transaccional:** El uso de `TransactionSynchronization.afterCommit()` en `action_dispatcher`, unido a la extracción del operador desde el `Principal` de **Spring Security**, aseguró que ninguna maniobra crítica sobre la planta pueda despacharse a los *workers* sin haber quedado previamente confirmada y firmada en PostgreSQL.
+4. **Defensa en Profundidad en Sistemas Operativos y Cloud:** La segmentación de Docker Compose en dos redes privadas (`iot_backend_net` e `iot_brokers_net`), el confinamiento de puertos en `127.0.0.1`, las doce fases de *hardening* en **Ubuntu Server 24.04 LTS** y la exposición a través de **Amazon CloudFront (`https://dnzhr4v1oxvn7.cloudfront.net`)** eliminaron por completo la exposición de direcciones IP públicas y puertos internos, alcanzando un estándar de seguridad, resiliencia y automatización propio de un entorno industrial real en producción.
+
+---
+
+## 8. Referencias Bibliográficas
+
+* Cockburn, A. (2005). *Hexagonal architecture (Ports and adapters)*. Alistair.cockburn.us.
+* Evans, E. (2003). *Domain-driven design: Tackling complexity in the heart of software*. Addison-Wesley Professional.
+* Fowler, M. (2002). *Patterns of enterprise application architecture*. Addison-Wesley Longman Publishing Co., Inc.
+* Gamma, E., Helm, R., Johnson, R., & Vlissides, J. (1994). *Design patterns: Elements of reusable object-oriented software*. Addison-Wesley Professional.
+* International Organization for Standardization. (2009). *Mechanical vibration — Evaluation of machine vibration by measurements on non-rotating parts — Part 3: Industrial machines with nominal power above 15 kW and nominal speeds between 120 r/min and 15 000 r/min when measured in situ* (Norma ISO 10816-3:2009). ISO.
+* Kleppmann, M. (2017). *Designing data-intensive applications: The big ideas behind reliable, scalable, and maintainable systems*. O'Reilly Media, Inc.
+* Martin, R. C. (2017). *Clean architecture: A craftsman's guide to software structure and design*. Prentice Hall.
+* Newman, S. (2021). *Building microservices: Designing fine-grained systems* (2nd ed.). O'Reilly Media, Inc.
+* Object Management Group. (2017). *OMG Unified Modeling Language (OMG UML), Version 2.5.1*. OMG Document Formal/2017-12-05.
